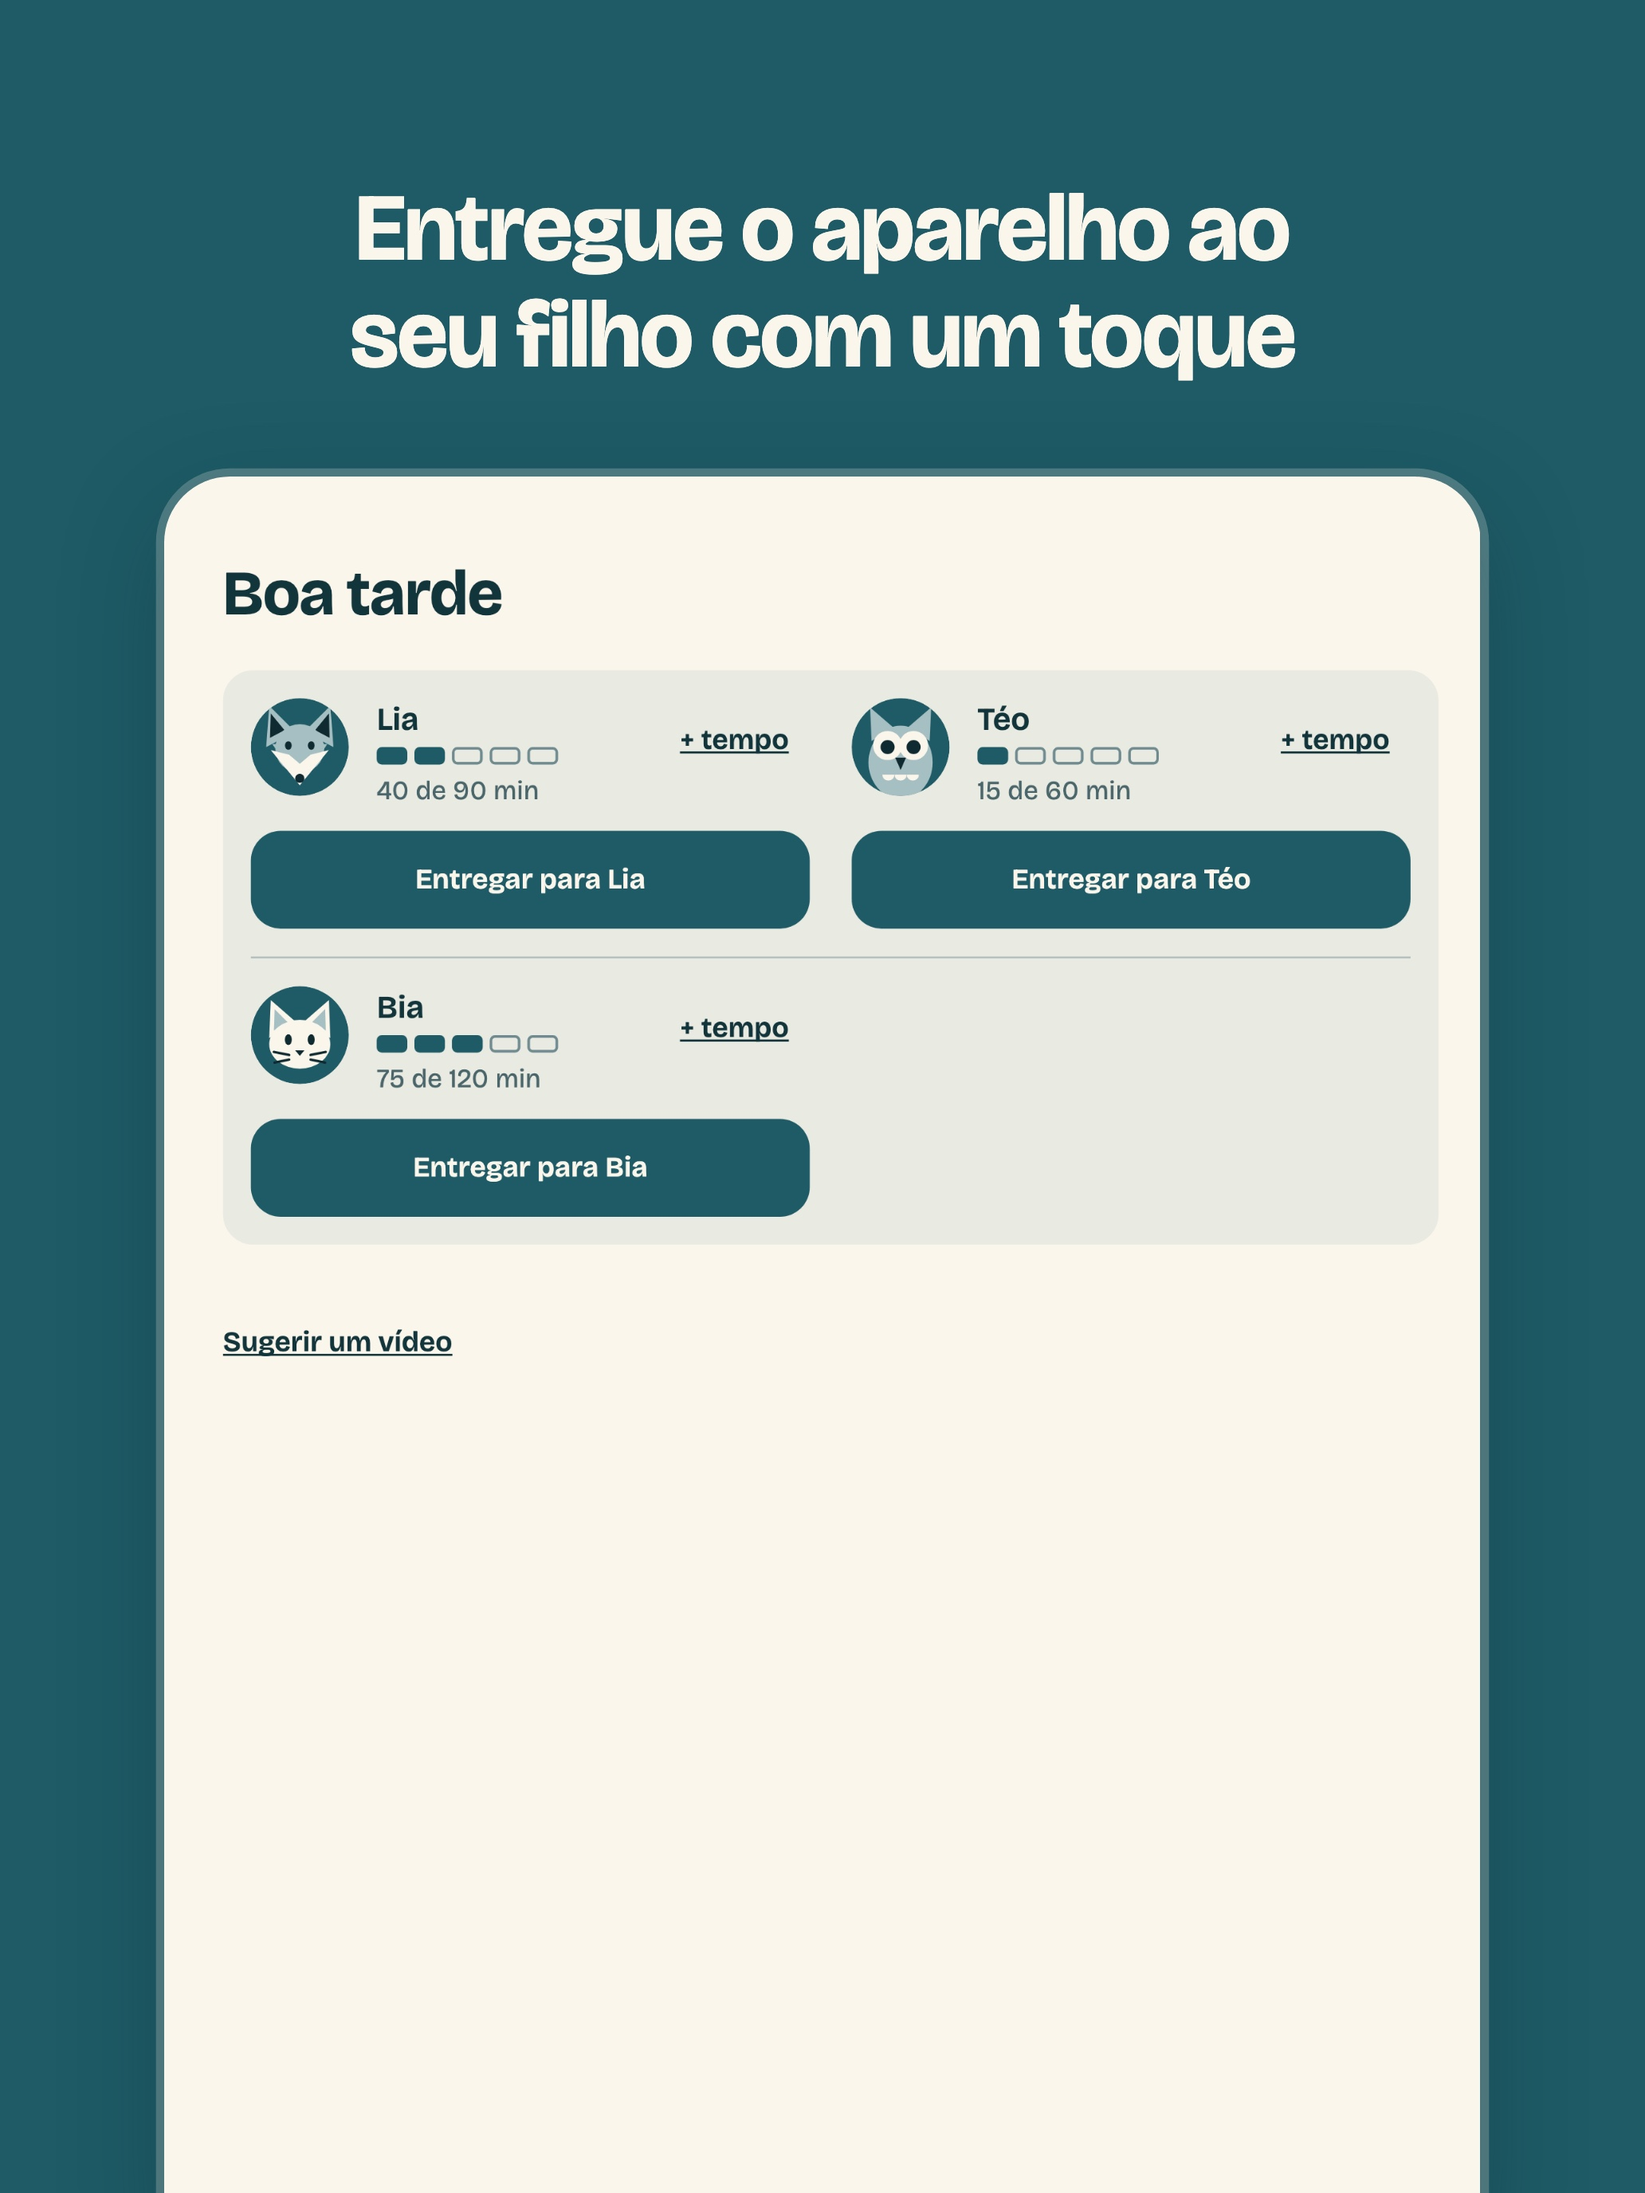
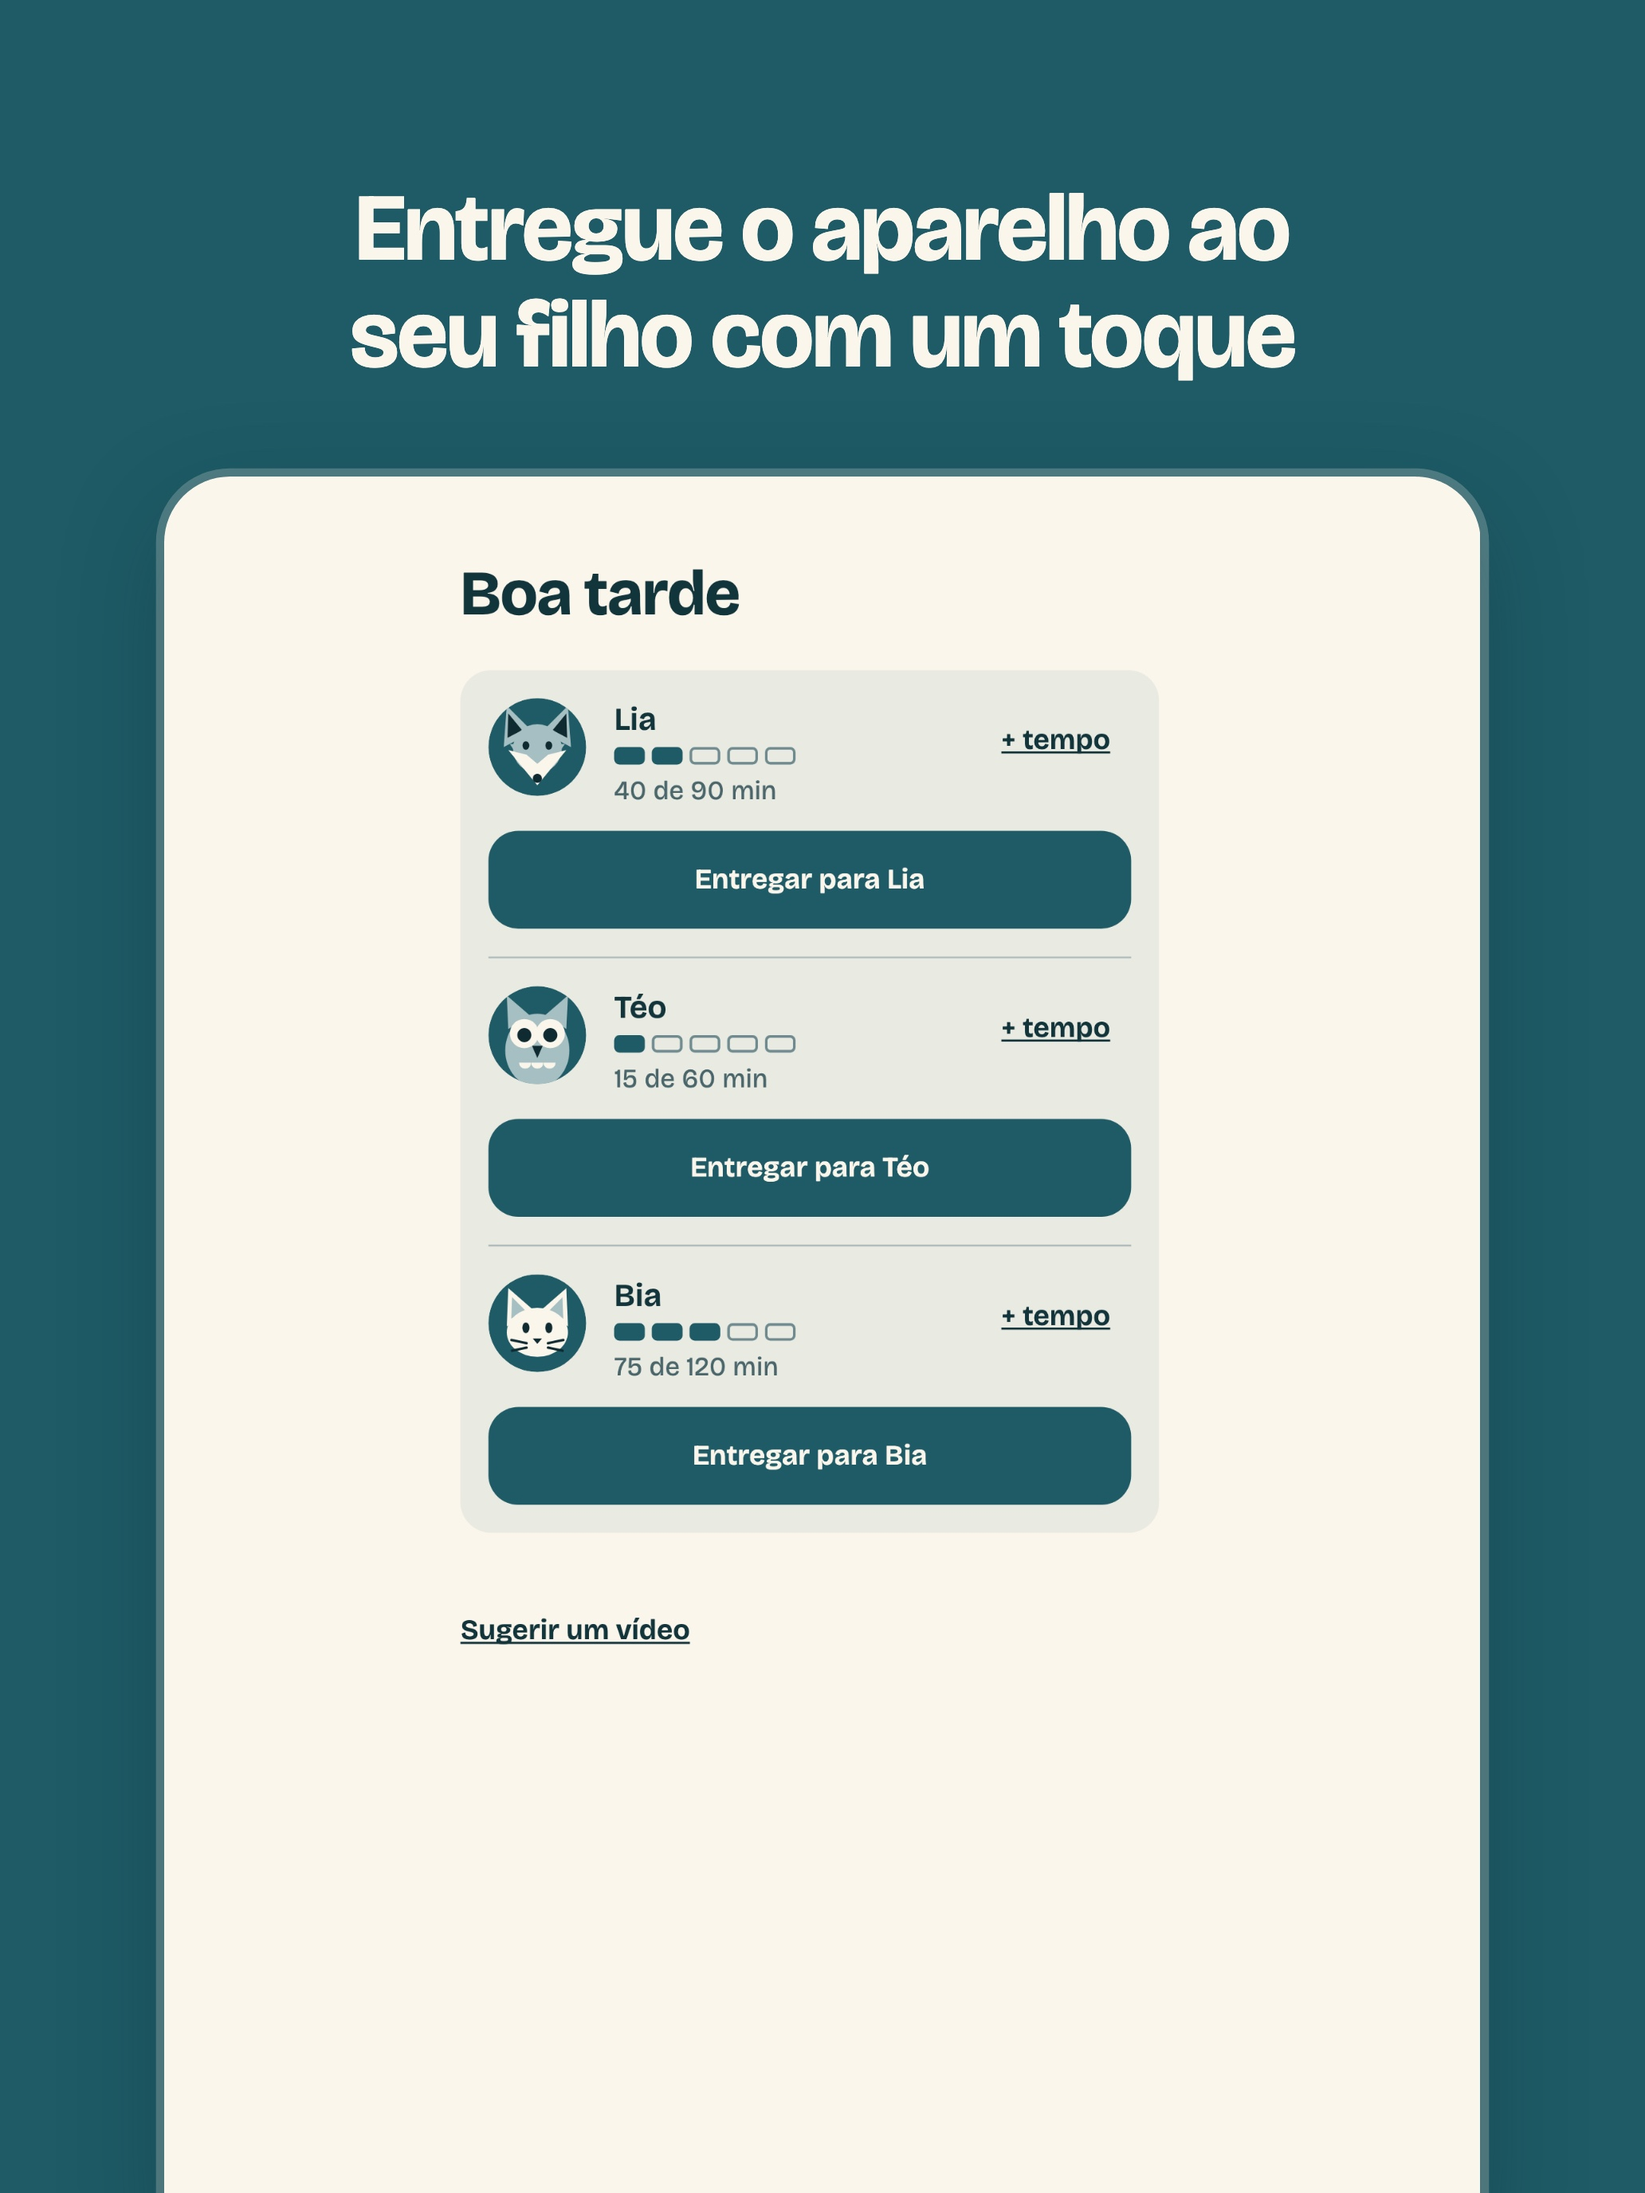
chore(app): keep the iPad child's page frame on her day
On a 13 inch iPad the child's page now sets Vídeos beside Hoje; the
frame captioned by the day crops to the Hoje column, and the frame
check measures a title by its painted words rather than its stretched
box. The iPad frames are rendered again with the centred column.

diff --git a/app/test/store_screens/store_screens_test.dart b/app/test/store_screens/store_screens_test.dart
@@ -136,7 +136,7 @@ Future<void> capture(WidgetTester tester, Profile p, Frame f) async {
   for (final phrase in f.mustShow) {
     final finder = find.textContaining(phrase);
     expect(finder, findsWidgets, reason: '${f.number} must show "$phrase"');
-    final rect = tester.getRect(finder.first);
+    final rect = _painted(tester, finder.first);
     expect(
       _inside(rect, viewport),
       isTrue,
@@ -162,6 +162,24 @@ Future<void> capture(WidgetTester tester, Profile p, Frame f) async {
       ..createSync(recursive: true);
     file.writeAsBytesSync(bytes!.buffer.asUint8List());
   });
+}
+
+/// Where [text]'s glyphs stand on the screen: a title stretched across a
+/// wide column paints its words only at the start of its box.
+Rect _painted(WidgetTester tester, Finder text) {
+  final rich = find.descendant(of: text, matching: find.byType(RichText));
+  final paragraph = tester.renderObject<RenderParagraph>(
+    rich.evaluate().isEmpty ? text : rich.first,
+  );
+  final length = paragraph.text.toPlainText().length;
+  final boxes = paragraph.getBoxesForSelection(
+    TextSelection(baseOffset: 0, extentOffset: length),
+  );
+  if (boxes.isEmpty) return tester.getRect(text);
+  final local = boxes
+      .map((b) => b.toRect())
+      .reduce((a, b) => a.expandToInclude(b));
+  return MatrixUtils.transformRect(paragraph.getTransformTo(null), local);
 }
 
 bool _inside(Rect inner, Rect outer) =>
